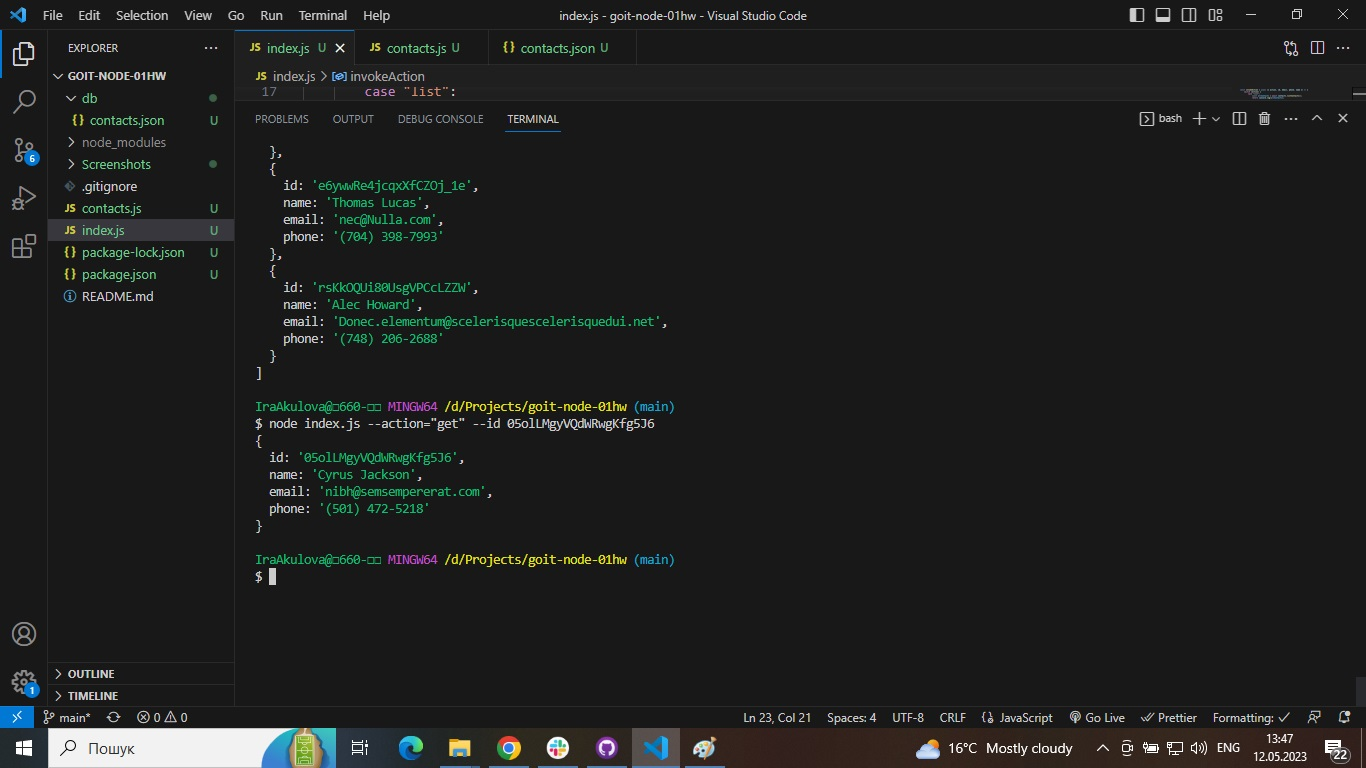
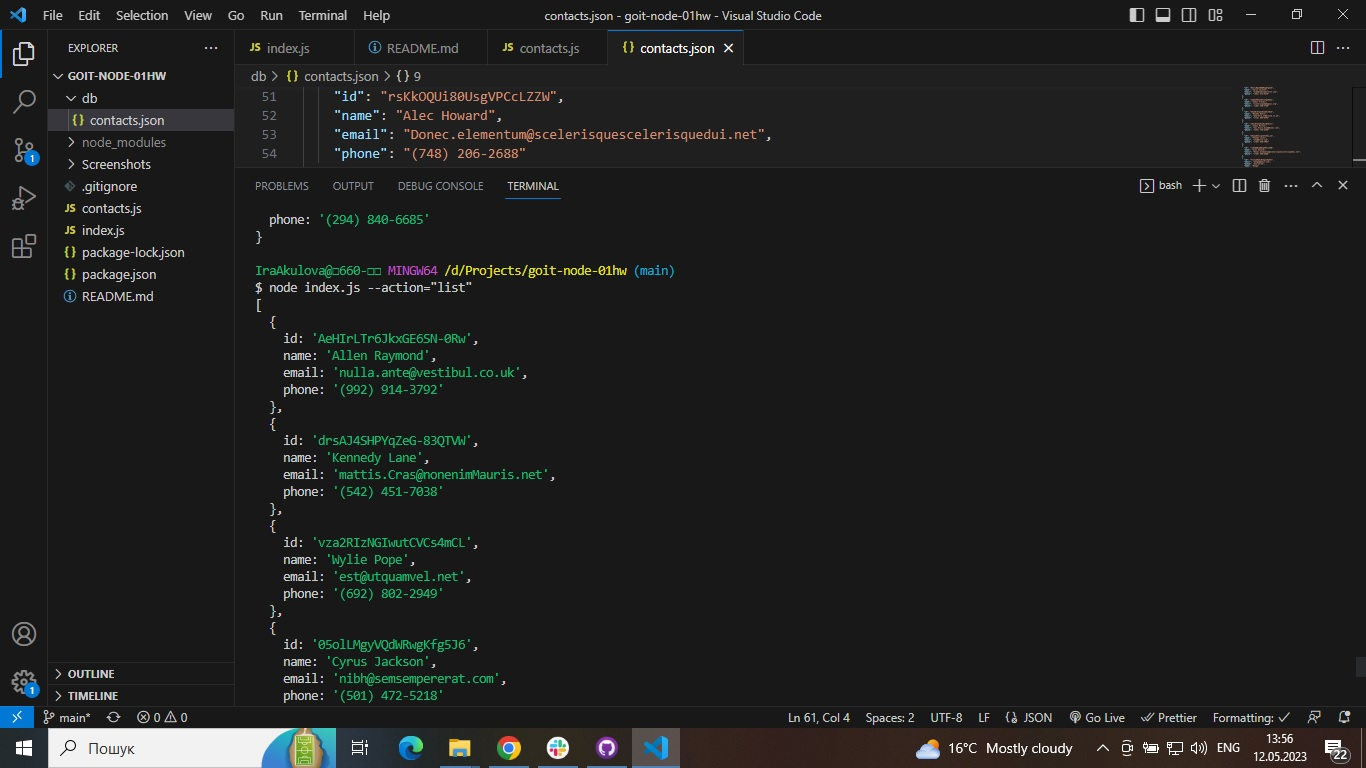
changet screenshot for list

diff --git a/README.md b/README.md
@@ -1,6 +1,6 @@
 # Отримуємо і виводимо весь список контактів у вигляді таблиці (console.table)
 node index.js --action="list"
-https://monosnap.com/file/gY9Zgco6Uy0MqoERrMmVeDPXYswfDK
+https://monosnap.com/file/pHp9HdR31DCrPrpAQnj8JB6U06F8Hl
 
 # Отримуємо контакт по id
 node index.js --action="get" --id 05olLMgyVQdWRwgKfg5J6
